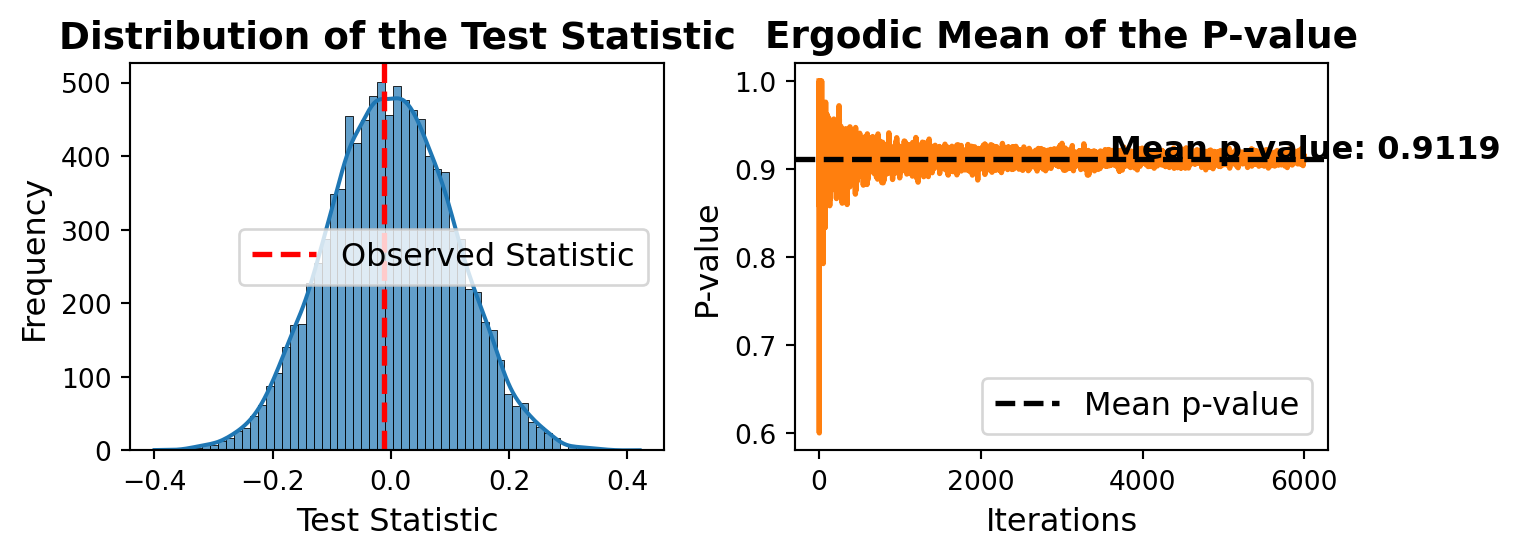
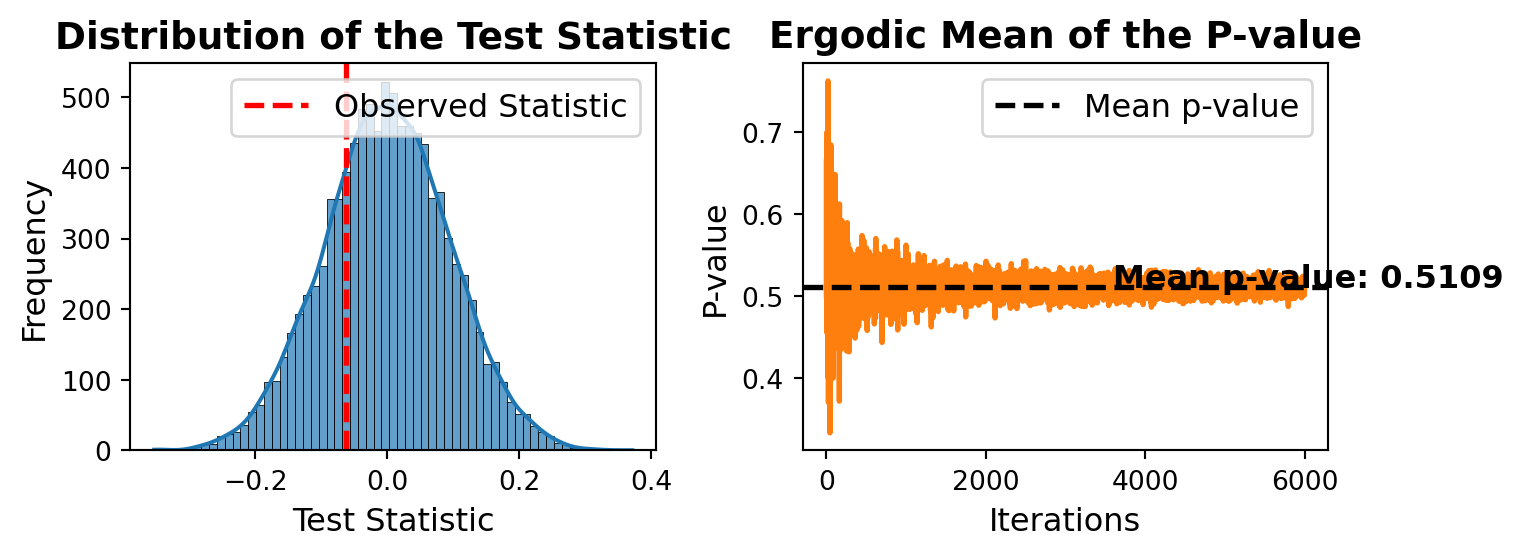
Permuation test

diff --git a/docs/2A/ResamplingMethod/PermutationTest.html b/docs/2A/ResamplingMethod/PermutationTest.html
@@ -406,7 +406,7 @@ Algo : Symmetry test by permutation test (Monte Carlo)
 </div>
 </div>
 <p>The code below is an implementation of the permutation test for the symmetry test.</p>
-<div id="6c7db2db" class="cell" data-execution_count="1">
+<div id="26622618" class="cell" data-execution_count="1">
 <div class="sourceCode cell-code" id="cb1"><pre class="sourceCode python code-with-copy"><code class="sourceCode python"><span id="cb1-1"><a href="#cb1-1" aria-hidden="true" tabindex="-1"></a><span class="im">import</span> numpy <span class="im">as</span> np</span>
 <span id="cb1-2"><a href="#cb1-2" aria-hidden="true" tabindex="-1"></a></span>
 <span id="cb1-3"><a href="#cb1-3" aria-hidden="true" tabindex="-1"></a></span>
@@ -436,7 +436,7 @@ Algo : Symmetry test by permutation test (Monte Carlo)
 <span id="cb1-27"><a href="#cb1-27" aria-hidden="true" tabindex="-1"></a>    <span class="cf">return</span> {<span class="st">"statistic"</span>: tobs, <span class="st">"sample_perm"</span>: tperm, <span class="st">"p-value"</span>: p}</span></code><button title="Copy to Clipboard" class="code-copy-button"><i class="bi"></i></button></pre></div>
 </div>
 <p>Let’s apply the symmetry test to a central normal distribution.</p>
-<div id="27a22f42" class="cell" data-execution_count="2">
+<div id="b10e54a9" class="cell" data-execution_count="2">
 <div class="sourceCode cell-code" id="cb2"><pre class="sourceCode python code-with-copy"><code class="sourceCode python"><span id="cb2-1"><a href="#cb2-1" aria-hidden="true" tabindex="-1"></a><span class="co">#np.random.seed(42)</span></span>
 <span id="cb2-2"><a href="#cb2-2" aria-hidden="true" tabindex="-1"></a></span>
 <span id="cb2-3"><a href="#cb2-3" aria-hidden="true" tabindex="-1"></a>n <span class="op">=</span> <span class="dv">100</span></span>
@@ -447,11 +447,11 @@ Algo : Symmetry test by permutation test (Monte Carlo)
 <span id="cb2-8"><a href="#cb2-8" aria-hidden="true" tabindex="-1"></a><span class="bu">print</span>(<span class="ss">f"Statistic : </span><span class="sc">{</span>res[<span class="st">'statistic'</span>]<span class="sc">}</span><span class="ss">,"</span> </span>
 <span id="cb2-9"><a href="#cb2-9" aria-hidden="true" tabindex="-1"></a>      <span class="ss">f" p-value : </span><span class="sc">{</span>res[<span class="st">'p-value'</span>]<span class="sc">}</span><span class="ss">"</span>)</span></code><button title="Copy to Clipboard" class="code-copy-button"><i class="bi"></i></button></pre></div>
 <div class="cell-output cell-output-stdout">
-<pre><code>Statistic : -0.011793040159783805, p-value : 0.9193</code></pre>
+<pre><code>Statistic : -0.06308259014379482, p-value : 0.5059</code></pre>
 </div>
 </div>
 <p><strong>Distribution of the mean and the ergodic mean p-values.</strong></p>
-<div id="e85530c4" class="cell" data-execution_count="3">
+<div id="e8de244d" class="cell" data-execution_count="3">
 <div class="sourceCode cell-code" id="cb4"><pre class="sourceCode python code-with-copy"><code class="sourceCode python"><span id="cb4-1"><a href="#cb4-1" aria-hidden="true" tabindex="-1"></a>B <span class="op">=</span> <span class="dv">6000</span></span>
 <span id="cb4-2"><a href="#cb4-2" aria-hidden="true" tabindex="-1"></a><span class="co"># P value for a range of nsamp from 1 to B</span></span>
 <span id="cb4-3"><a href="#cb4-3" aria-hidden="true" tabindex="-1"></a>p_values <span class="op">=</span> [symmetry_perm(x, func<span class="op">=</span>np.mean, nsamp<span class="op">=</span>i)[<span class="st">"p-value"</span>] <span class="cf">for</span> i <span class="kw">in</span> np.arange(<span class="dv">1</span>, B)]</span>
@@ -492,7 +492,7 @@ Algo : Symmetry test by permutation test (Monte Carlo)
 <div class="cell-output cell-output-display">
 <div>
 <figure class="figure">
-<p><img src="PermutationTest_files/figure-html/cell-4-output-1.png" width="760" height="278" class="figure-img"></p>
+<p><img src="PermutationTest_files/figure-html/cell-4-output-1.png" width="762" height="278" class="figure-img"></p>
 </figure>
 </div>
 </div>
@@ -507,7 +507,7 @@ T(X) = \sum_{i=1}^n R_i sign(X_i)
 \]</span></p>
 <p>where <span class="math inline">\(R_i\)</span> is the rank of <span class="math inline">\(|X_i|\)</span> in <span class="math inline">\(|X_1|, |X_2|, \ldots, |X_n|\)</span>.</p>
 <p>For the application of the Wilcoxon sign-rank test, for 10 patients, we have data on the number of hours of sleep after taking a drug and after taking a placebo. The goal is to test if the number of hours of sleep is the same after taking the drug and the placebo.</p>
-<div id="4586710b" class="cell" data-execution_count="4">
+<div id="fb429a6d" class="cell" data-execution_count="4">
 <div class="sourceCode cell-code" id="cb5"><pre class="sourceCode python code-with-copy"><code class="sourceCode python"><span id="cb5-1"><a href="#cb5-1" aria-hidden="true" tabindex="-1"></a><span class="im">from</span> scipy.stats <span class="im">import</span> wilcoxon, PermutationMethod</span>
 <span id="cb5-2"><a href="#cb5-2" aria-hidden="true" tabindex="-1"></a><span class="im">import</span> pandas <span class="im">as</span> pd</span>
 <span id="cb5-3"><a href="#cb5-3" aria-hidden="true" tabindex="-1"></a></span>
@@ -523,9 +523,12 @@ T(X) = \sum_{i=1}^n R_i sign(X_i)
 <span id="cb5-13"><a href="#cb5-13" aria-hidden="true" tabindex="-1"></a><span class="bu">print</span>(<span class="ss">f"Statistic : </span><span class="sc">{</span>res[<span class="st">'statistic'</span>]<span class="sc">}</span><span class="ss">,"</span> </span>
 <span id="cb5-14"><a href="#cb5-14" aria-hidden="true" tabindex="-1"></a>      <span class="ss">f" p-value : </span><span class="sc">{</span>res[<span class="st">'p-value'</span>]<span class="sc">}</span><span class="ss">"</span>)</span></code><button title="Copy to Clipboard" class="code-copy-button"><i class="bi"></i></button></pre></div>
 <div class="cell-output cell-output-stdout">
-<pre><code>Statistic : 45.0, p-value : 0.01985</code></pre>
+<pre><code>Statistic : 45.0, p-value : 0.01965</code></pre>
 </div>
 </div>
+<p>The p-value is 0.01985 less than 0.05, we reject the null hypothesis. The number of hours of sleep is not the same after taking the drug and the placebo.</p>
+<p>Conclusion</p>
+<p>The permutation test is a powerful tool for hypothesis testing and up-to-date. In this article, we have seen how to apply the permutation test to test the symmetry of a distribution and the Wilcoxon sign-rank test.</p>
 
 
 </section>

diff --git a/docs/Meduim/RegressionLogistique/bias_sample.html b/docs/Meduim/RegressionLogistique/bias_sample.html
@@ -8,7 +8,7 @@
 
 <meta name="author" content="Jumbong Junior">
 
-<title>Sampling Bias and Class Imbalance in Maximum-likelihood Logistic Regression – Jumbong Junior</title>
+<title>Sampling Bias and Class Imbalance in Maximum-likelihood Logistic Regression</title>
 <style>
 code{white-space: pre-wrap;}
 span.smallcaps{font-variant: small-caps;}
@@ -147,11 +147,6 @@ window.Quarto = {
   <header id="quarto-header" class="headroom fixed-top">
     <nav class="navbar navbar-expand-lg " data-bs-theme="dark">
       <div class="navbar-container container-fluid">
-      <div class="navbar-brand-container mx-auto">
-    <a class="navbar-brand" href="../../index.html">
-    <span class="navbar-title">Jumbong Junior</span>
-    </a>
-  </div>
             <div id="quarto-search" class="" title="Search"></div>
           <button class="navbar-toggler" type="button" data-bs-toggle="collapse" data-bs-target="#navbarCollapse" aria-controls="navbarCollapse" role="menu" aria-expanded="false" aria-label="Toggle navigation" onclick="if (window.quartoToggleHeadroom) { window.quartoToggleHeadroom(); }">
   <span class="navbar-toggler-icon"></span>
@@ -1569,7 +1564,7 @@ window.document.addEventListener("DOMContentLoaded", function (event) {
   }
     var localhostRegex = new RegExp(/^(?:http|https):\/\/localhost\:?[0-9]*\//);
     var mailtoRegex = new RegExp(/^mailto:/);
-      var filterRegex = new RegExp('/' + window.location.host + '/');
+      var filterRegex = new RegExp("https:\/\/Jumbong\.github\.io\/personal-website\/");
     var isInternal = (href) => {
         return filterRegex.test(href) || localhostRegex.test(href) || mailtoRegex.test(href);
     }

diff --git a/docs/Meduim/RegressionLogistique/HosmerL.html b/docs/Meduim/RegressionLogistique/HosmerL.html
@@ -8,7 +8,7 @@
 
 <meta name="author" content="Jumbong Junior">
 
-<title>Evaluation of the Logistic Regression : The Hosmer-Lemeshow test – Jumbong Junior</title>
+<title>Evaluation of the Logistic Regression : The Hosmer-Lemeshow test</title>
 <style>
 code{white-space: pre-wrap;}
 span.smallcaps{font-variant: small-caps;}
@@ -147,11 +147,6 @@ window.Quarto = {
   <header id="quarto-header" class="headroom fixed-top">
     <nav class="navbar navbar-expand-lg " data-bs-theme="dark">
       <div class="navbar-container container-fluid">
-      <div class="navbar-brand-container mx-auto">
-    <a class="navbar-brand" href="../../index.html">
-    <span class="navbar-title">Jumbong Junior</span>
-    </a>
-  </div>
             <div id="quarto-search" class="" title="Search"></div>
           <button class="navbar-toggler" type="button" data-bs-toggle="collapse" data-bs-target="#navbarCollapse" aria-controls="navbarCollapse" role="menu" aria-expanded="false" aria-label="Toggle navigation" onclick="if (window.quartoToggleHeadroom) { window.quartoToggleHeadroom(); }">
   <span class="navbar-toggler-icon"></span>
@@ -1008,7 +1003,7 @@ window.document.addEventListener("DOMContentLoaded", function (event) {
   }
     var localhostRegex = new RegExp(/^(?:http|https):\/\/localhost\:?[0-9]*\//);
     var mailtoRegex = new RegExp(/^mailto:/);
-      var filterRegex = new RegExp('/' + window.location.host + '/');
+      var filterRegex = new RegExp("https:\/\/Jumbong\.github\.io\/personal-website\/");
     var isInternal = (href) => {
         return filterRegex.test(href) || localhostRegex.test(href) || mailtoRegex.test(href);
     }

diff --git a/docs/3A/bilan_entreprise.html b/docs/3A/bilan_entreprise.html
@@ -8,7 +8,7 @@
 
 <meta name="author" content="Cheryl Kouadio">
 
-<title>Comment fonctionne le bilan et le compte de résultat d’une entreprise – Jumbong Junior</title>
+<title>Comment fonctionne le bilan et le compte de résultat d’une entreprise</title>
 <style>
 code{white-space: pre-wrap;}
 span.smallcaps{font-variant: small-caps;}
@@ -110,11 +110,6 @@ window.Quarto = {
   <header id="quarto-header" class="headroom fixed-top">
     <nav class="navbar navbar-expand-lg " data-bs-theme="dark">
       <div class="navbar-container container-fluid">
-      <div class="navbar-brand-container mx-auto">
-    <a class="navbar-brand" href="../index.html">
-    <span class="navbar-title">Jumbong Junior</span>
-    </a>
-  </div>
             <div id="quarto-search" class="" title="Search"></div>
           <button class="navbar-toggler" type="button" data-bs-toggle="collapse" data-bs-target="#navbarCollapse" aria-controls="navbarCollapse" role="menu" aria-expanded="false" aria-label="Toggle navigation" onclick="if (window.quartoToggleHeadroom) { window.quartoToggleHeadroom(); }">
   <span class="navbar-toggler-icon"></span>

diff --git a/docs/Meduim/RegressionLogistique/MissForest.html b/docs/Meduim/RegressionLogistique/MissForest.html
@@ -8,7 +8,7 @@
 
 <meta name="author" content="Jumbong Junior">
 
-<title>Missing data treatment and imputation in python – Jumbong Junior</title>
+<title>Missing data treatment and imputation in python</title>
 <style>
 code{white-space: pre-wrap;}
 span.smallcaps{font-variant: small-caps;}
@@ -81,11 +81,6 @@ ul.task-list li input[type="checkbox"] {
   <header id="quarto-header" class="headroom fixed-top">
     <nav class="navbar navbar-expand-lg " data-bs-theme="dark">
       <div class="navbar-container container-fluid">
-      <div class="navbar-brand-container mx-auto">
-    <a class="navbar-brand" href="../../index.html">
-    <span class="navbar-title">Jumbong Junior</span>
-    </a>
-  </div>
             <div id="quarto-search" class="" title="Search"></div>
           <button class="navbar-toggler" type="button" data-bs-toggle="collapse" data-bs-target="#navbarCollapse" aria-controls="navbarCollapse" role="menu" aria-expanded="false" aria-label="Toggle navigation" onclick="if (window.quartoToggleHeadroom) { window.quartoToggleHeadroom(); }">
   <span class="navbar-toggler-icon"></span>

diff --git a/docs/about.html b/docs/about.html
@@ -7,7 +7,7 @@
 <meta name="viewport" content="width=device-width, initial-scale=1.0, user-scalable=yes">
 
 
-<title>A propos de moi – Jumbong Junior</title>
+<title>A propos de moi</title>
 <style>
 code{white-space: pre-wrap;}
 span.smallcaps{font-variant: small-caps;}
@@ -80,11 +80,6 @@ ul.task-list li input[type="checkbox"] {
   <header id="quarto-header" class="headroom fixed-top">
     <nav class="navbar navbar-expand-lg " data-bs-theme="dark">
       <div class="navbar-container container-fluid">
-      <div class="navbar-brand-container mx-auto">
-    <a class="navbar-brand" href="./index.html">
-    <span class="navbar-title">Jumbong Junior</span>
-    </a>
-  </div>
             <div id="quarto-search" class="" title="Search"></div>
           <button class="navbar-toggler" type="button" data-bs-toggle="collapse" data-bs-target="#navbarCollapse" aria-controls="navbarCollapse" role="menu" aria-expanded="false" aria-label="Toggle navigation" onclick="if (window.quartoToggleHeadroom) { window.quartoToggleHeadroom(); }">
   <span class="navbar-toggler-icon"></span>

diff --git a/docs/3A/Apprentisage-stat/Tp1.html b/docs/3A/Apprentisage-stat/Tp1.html
@@ -8,7 +8,7 @@
 
 <meta name="author" content="Cheryl KOUADIO">
 
-<title>Ridge regression vs.&nbsp;Lasso regression – Jumbong Junior</title>
+<title>Ridge regression vs.&nbsp;Lasso regression</title>
 <style>
 code{white-space: pre-wrap;}
 span.smallcaps{font-variant: small-caps;}
@@ -147,11 +147,6 @@ window.Quarto = {
   <header id="quarto-header" class="headroom fixed-top">
     <nav class="navbar navbar-expand-lg " data-bs-theme="dark">
       <div class="navbar-container container-fluid">
-      <div class="navbar-brand-container mx-auto">
-    <a class="navbar-brand" href="../../index.html">
-    <span class="navbar-title">Jumbong Junior</span>
-    </a>
-  </div>
             <div id="quarto-search" class="" title="Search"></div>
           <button class="navbar-toggler" type="button" data-bs-toggle="collapse" data-bs-target="#navbarCollapse" aria-controls="navbarCollapse" role="menu" aria-expanded="false" aria-label="Toggle navigation" onclick="if (window.quartoToggleHeadroom) { window.quartoToggleHeadroom(); }">
   <span class="navbar-toggler-icon"></span>

diff --git a/docs/LearningSas/learningsas.html b/docs/LearningSas/learningsas.html
@@ -8,7 +8,7 @@
 
 <meta name="author" content="Jumbong Junior">
 
-<title>Learning SAS – Jumbong Junior</title>
+<title>Learning SAS</title>
 <style>
 code{white-space: pre-wrap;}
 span.smallcaps{font-variant: small-caps;}
@@ -115,11 +115,6 @@ pre > code.sourceCode > span > a:first-child::before { text-decoration: underlin
   <header id="quarto-header" class="headroom fixed-top">
     <nav class="navbar navbar-expand-lg " data-bs-theme="dark">
       <div class="navbar-container container-fluid">
-      <div class="navbar-brand-container mx-auto">
-    <a class="navbar-brand" href="../index.html">
-    <span class="navbar-title">Jumbong Junior</span>
-    </a>
-  </div>
             <div id="quarto-search" class="" title="Search"></div>
           <button class="navbar-toggler" type="button" data-bs-toggle="collapse" data-bs-target="#navbarCollapse" aria-controls="navbarCollapse" role="menu" aria-expanded="false" aria-label="Toggle navigation" onclick="if (window.quartoToggleHeadroom) { window.quartoToggleHeadroom(); }">
   <span class="navbar-toggler-icon"></span>

diff --git a/docs/3A/risque_def.html b/docs/3A/risque_def.html
@@ -8,7 +8,7 @@
 
 <meta name="author" content="Cheryl Kouadio">
 
-<title>Le risque, qu’est ce que c’est ? – Jumbong Junior</title>
+<title>Le risque, qu’est ce que c’est ?</title>
 <style>
 code{white-space: pre-wrap;}
 span.smallcaps{font-variant: small-caps;}
@@ -110,11 +110,6 @@ window.Quarto = {
   <header id="quarto-header" class="headroom fixed-top">
     <nav class="navbar navbar-expand-lg " data-bs-theme="dark">
       <div class="navbar-container container-fluid">
-      <div class="navbar-brand-container mx-auto">
-    <a class="navbar-brand" href="../index.html">
-    <span class="navbar-title">Jumbong Junior</span>
-    </a>
-  </div>
             <div id="quarto-search" class="" title="Search"></div>
           <button class="navbar-toggler" type="button" data-bs-toggle="collapse" data-bs-target="#navbarCollapse" aria-controls="navbarCollapse" role="menu" aria-expanded="false" aria-label="Toggle navigation" onclick="if (window.quartoToggleHeadroom) { window.quartoToggleHeadroom(); }">
   <span class="navbar-toggler-icon"></span>

diff --git a/docs/3A/reglementation_prudentielle.html b/docs/3A/reglementation_prudentielle.html
@@ -8,7 +8,7 @@
 
 <meta name="author" content="Cheryl Kouadio">
 
-<title>La réglementation prudentielle – Jumbong Junior</title>
+<title>La réglementation prudentielle</title>
 <style>
 code{white-space: pre-wrap;}
 span.smallcaps{font-variant: small-caps;}
@@ -110,11 +110,6 @@ window.Quarto = {
   <header id="quarto-header" class="headroom fixed-top">
     <nav class="navbar navbar-expand-lg " data-bs-theme="dark">
       <div class="navbar-container container-fluid">
-      <div class="navbar-brand-container mx-auto">
-    <a class="navbar-brand" href="../index.html">
-    <span class="navbar-title">Jumbong Junior</span>
-    </a>
-  </div>
             <div id="quarto-search" class="" title="Search"></div>
           <button class="navbar-toggler" type="button" data-bs-toggle="collapse" data-bs-target="#navbarCollapse" aria-controls="navbarCollapse" role="menu" aria-expanded="false" aria-label="Toggle navigation" onclick="if (window.quartoToggleHeadroom) { window.quartoToggleHeadroom(); }">
   <span class="navbar-toggler-icon"></span>

diff --git a/docs/2A/App_sup/reg_lin.html b/docs/2A/App_sup/reg_lin.html
@@ -8,7 +8,7 @@
 
 <meta name="author" content="Cheryl Kouadio">
 
-<title>La régression linéaire – Jumbong Junior</title>
+<title>La régression linéaire</title>
 <style>
 code{white-space: pre-wrap;}
 span.smallcaps{font-variant: small-caps;}
@@ -144,11 +144,6 @@ window.Quarto = {
   <header id="quarto-header" class="headroom fixed-top">
     <nav class="navbar navbar-expand-lg " data-bs-theme="dark">
       <div class="navbar-container container-fluid">
-      <div class="navbar-brand-container mx-auto">
-    <a class="navbar-brand" href="../../index.html">
-    <span class="navbar-title">Jumbong Junior</span>
-    </a>
-  </div>
             <div id="quarto-search" class="" title="Search"></div>
           <button class="navbar-toggler" type="button" data-bs-toggle="collapse" data-bs-target="#navbarCollapse" aria-controls="navbarCollapse" role="menu" aria-expanded="false" aria-label="Toggle navigation" onclick="if (window.quartoToggleHeadroom) { window.quartoToggleHeadroom(); }">
   <span class="navbar-toggler-icon"></span>

diff --git a/docs/3A/Apprentisage-stat/Tp2.html b/docs/3A/Apprentisage-stat/Tp2.html
@@ -8,7 +8,7 @@
 
 <meta name="author" content="Cheryl KOUADIO">
 
-<title>Kernel Trick and SVM – Jumbong Junior</title>
+<title>Kernel Trick and SVM</title>
 <style>
 code{white-space: pre-wrap;}
 span.smallcaps{font-variant: small-caps;}
@@ -147,11 +147,6 @@ window.Quarto = {
   <header id="quarto-header" class="headroom fixed-top">
     <nav class="navbar navbar-expand-lg " data-bs-theme="dark">
       <div class="navbar-container container-fluid">
-      <div class="navbar-brand-container mx-auto">
-    <a class="navbar-brand" href="../../index.html">
-    <span class="navbar-title">Jumbong Junior</span>
-    </a>
-  </div>
             <div id="quarto-search" class="" title="Search"></div>
           <button class="navbar-toggler" type="button" data-bs-toggle="collapse" data-bs-target="#navbarCollapse" aria-controls="navbarCollapse" role="menu" aria-expanded="false" aria-label="Toggle navigation" onclick="if (window.quartoToggleHeadroom) { window.quartoToggleHeadroom(); }">
   <span class="navbar-toggler-icon"></span>
